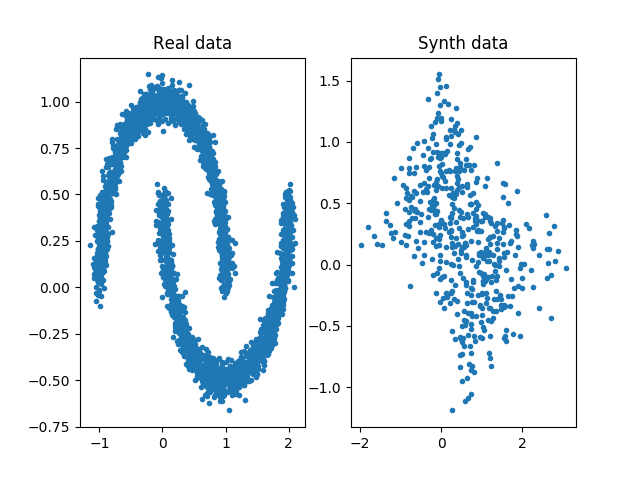
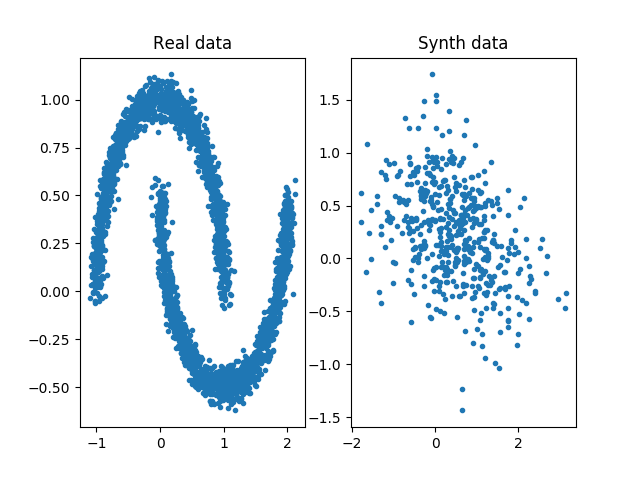
1 layer flow

diff --git a/SMAF/main.py b/SMAF/main.py
@@ -57,7 +57,7 @@ parser.add_argument(
 parser.add_argument(
     '--num-blocks',
     type=int,
-    default=5,
+    default=1,
     help='number of invertible blocks (default: 5)')
 parser.add_argument(
     '--seed', type=int, default=1, help='random seed (default: 1)')

diff --git a/README.md b/README.md
@@ -4,3 +4,4 @@ Progress:
 1. build the model
 2. test on Muon data by generate images for positive and negative classes
 3. test a simple classifer 
+4. Add MADE structure. 
